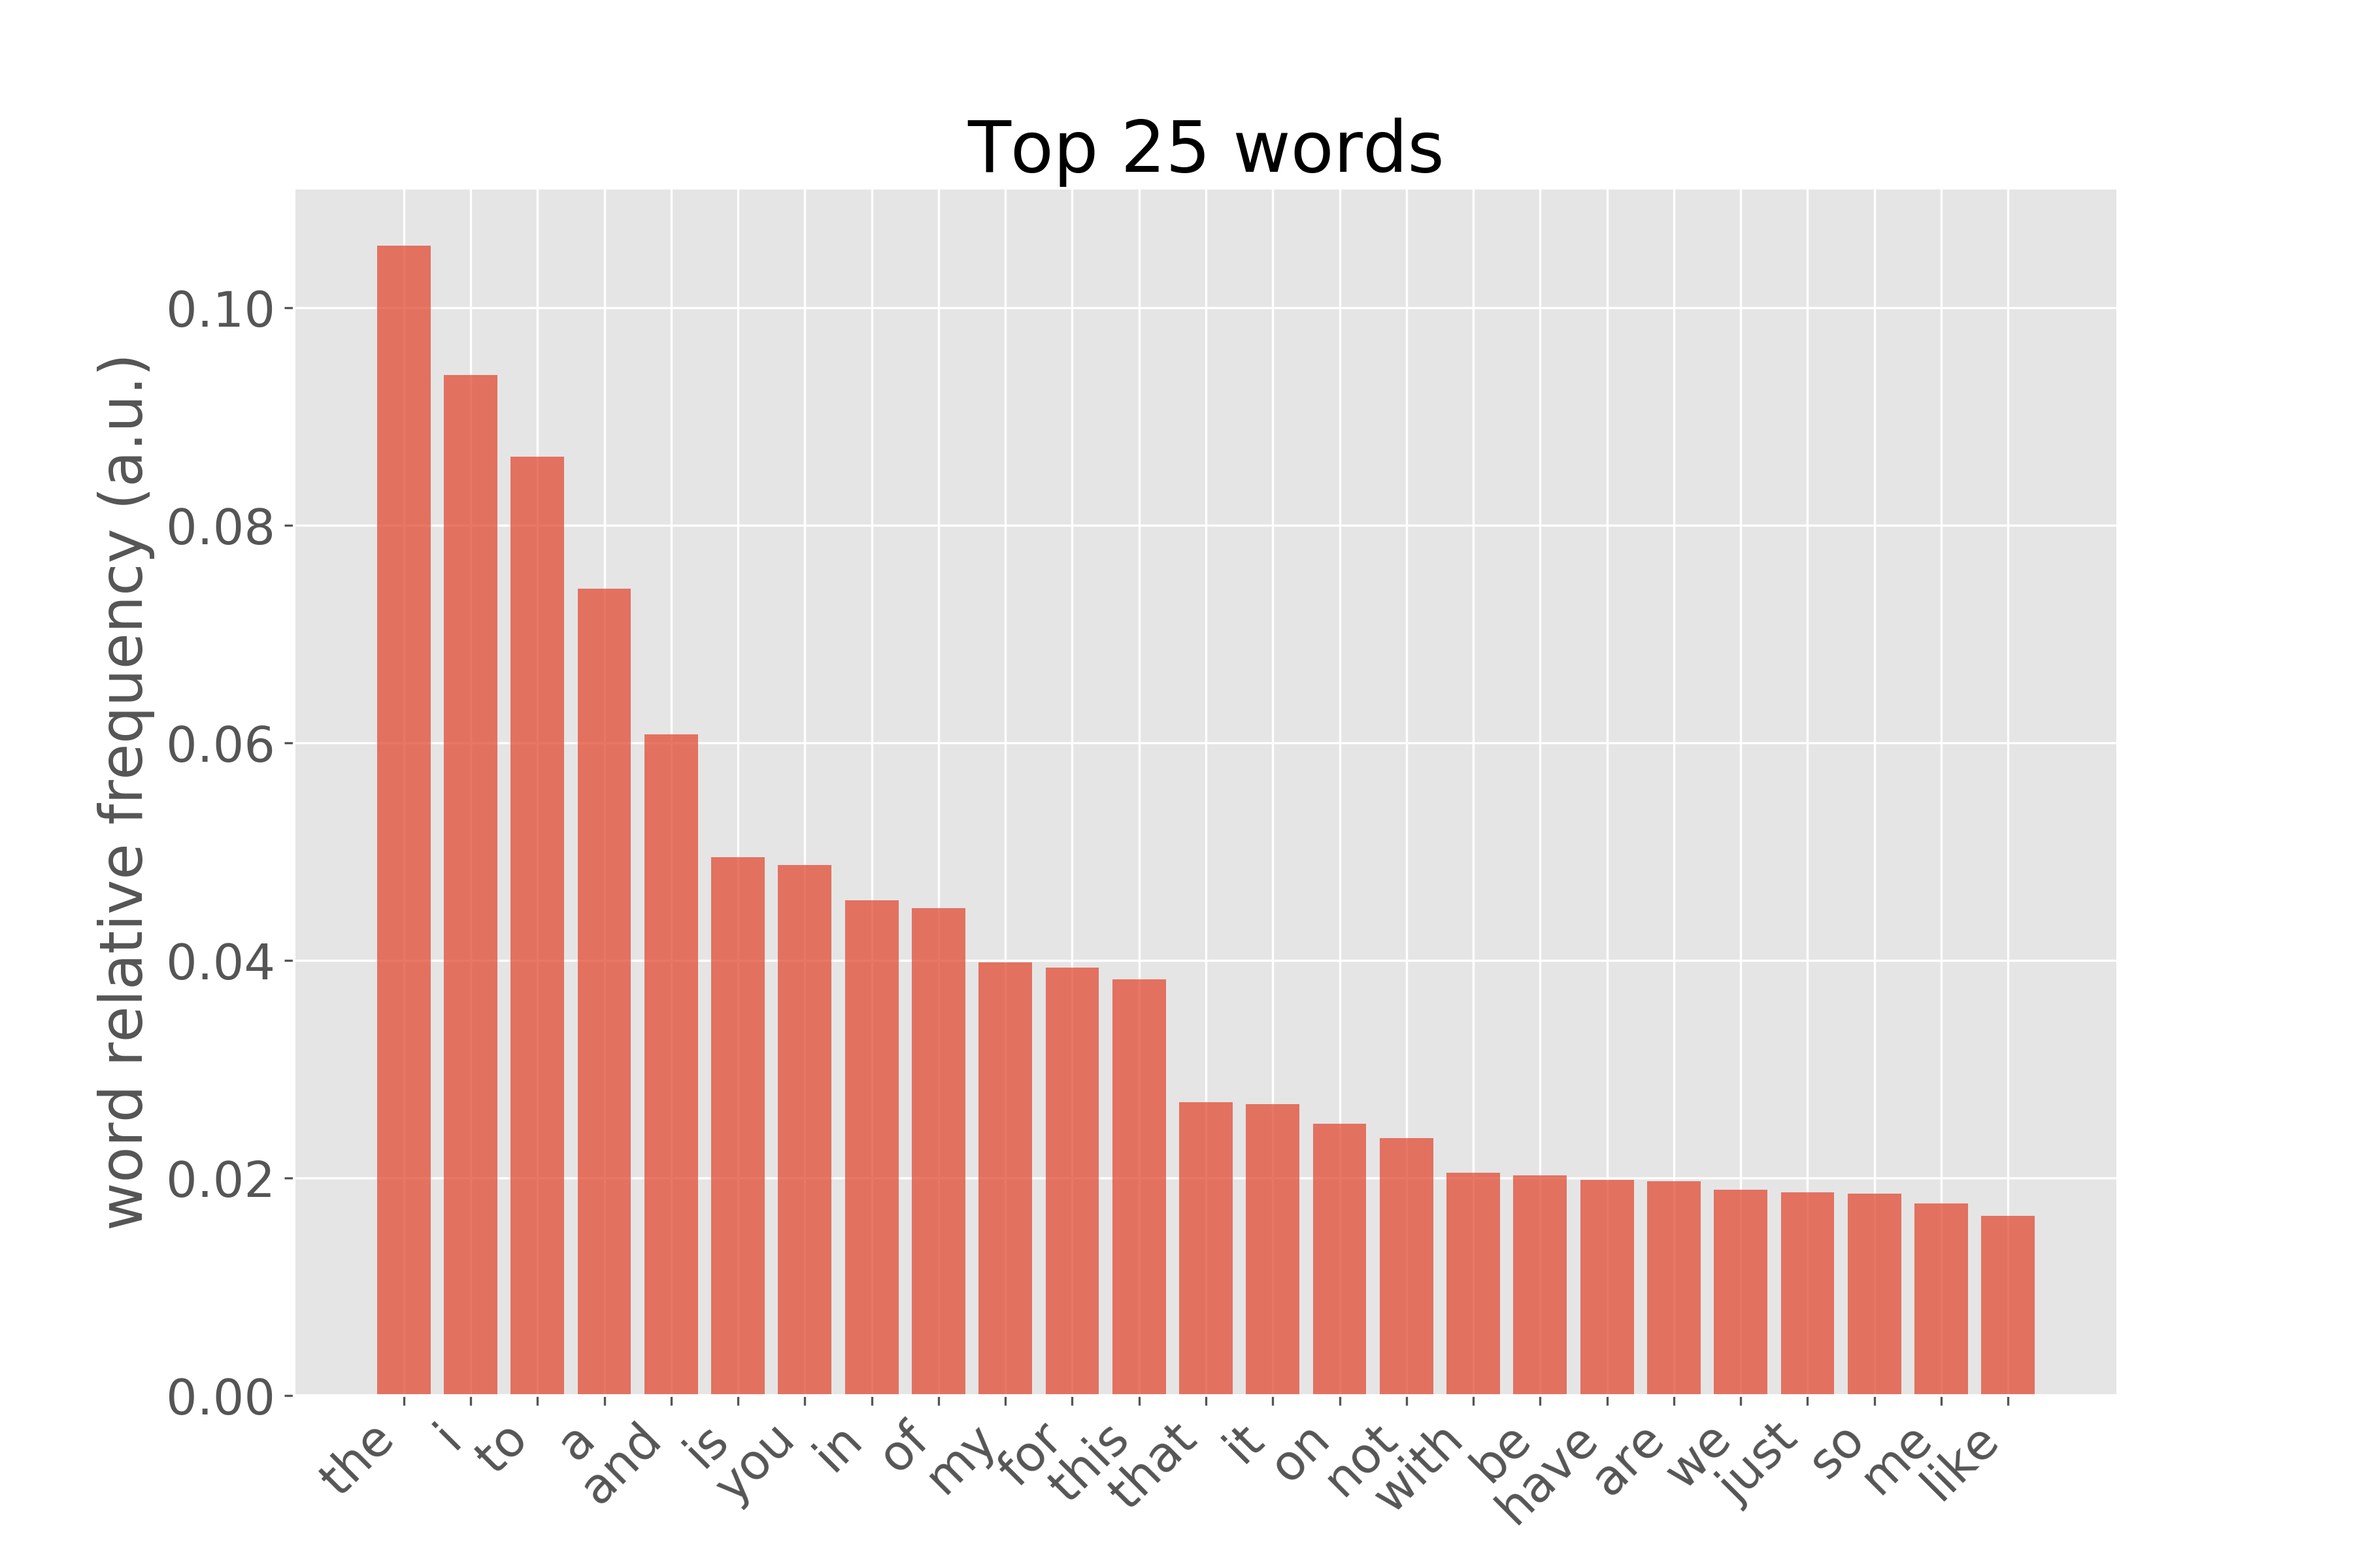
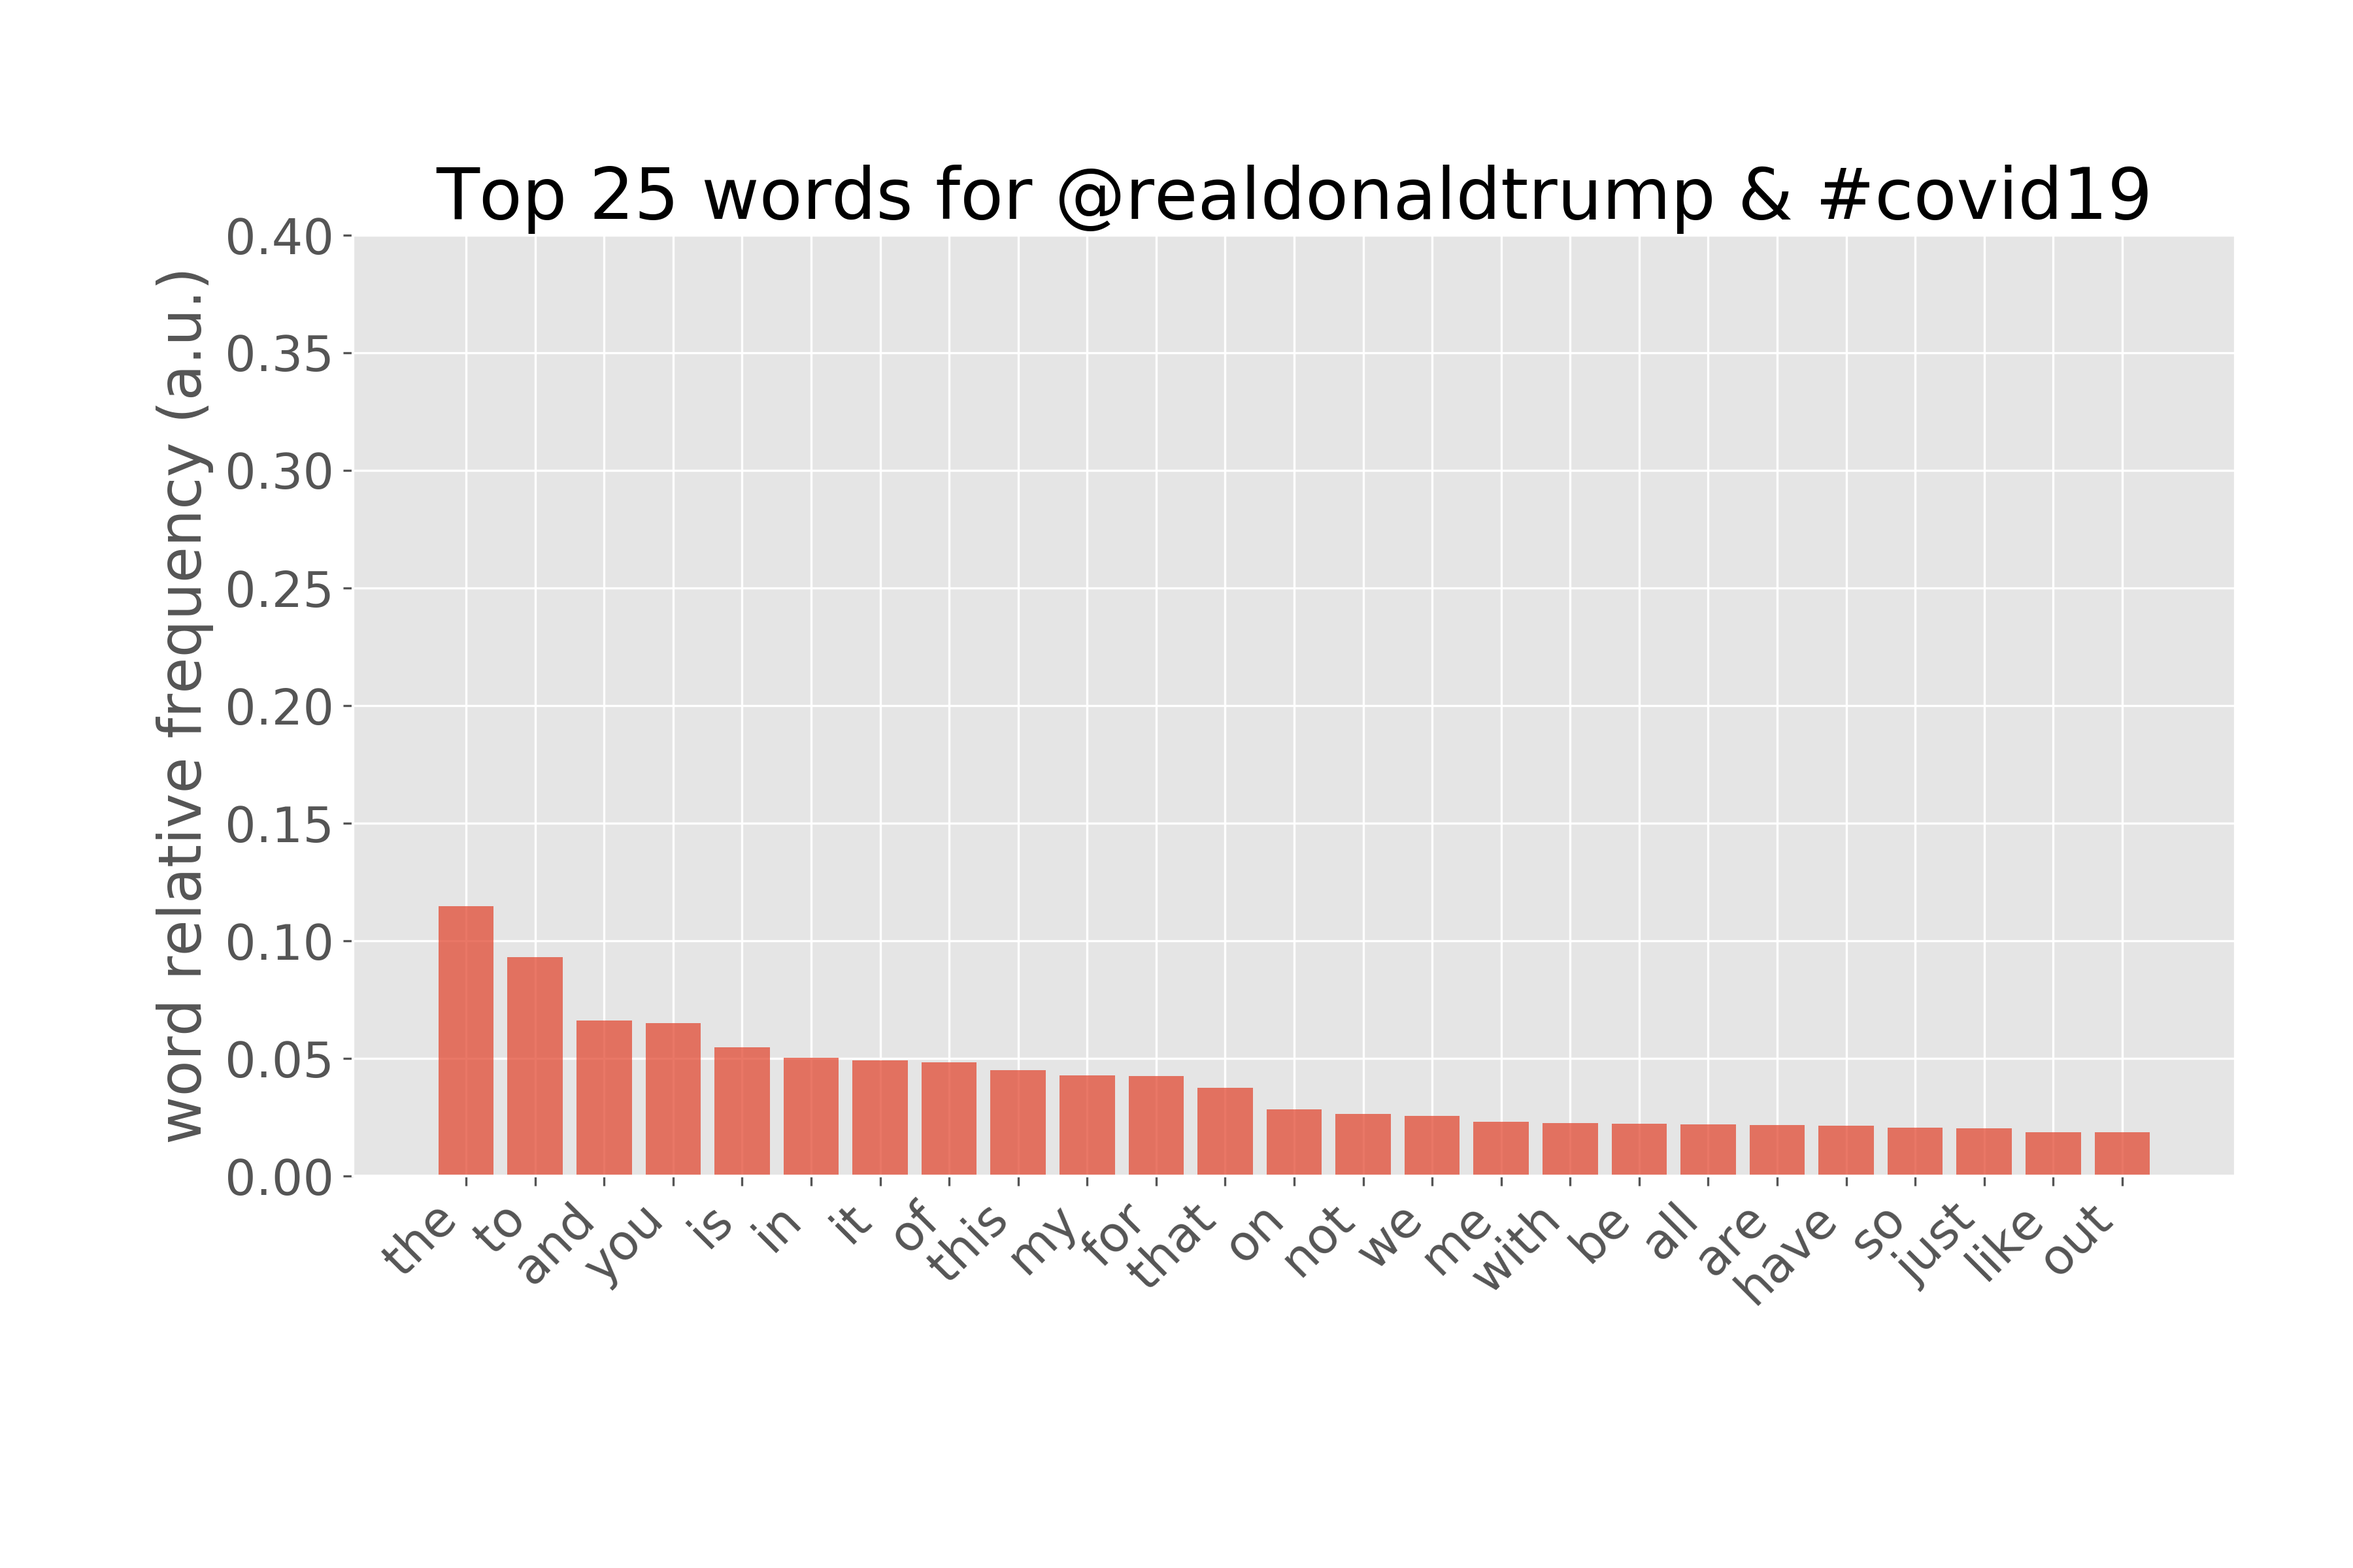
formatted barcharts, updated text filter

diff --git a/src/co_data.py b/src/co_data.py
@@ -3,7 +3,6 @@ import numpy as np
 import os
 import re
 import matplotlib.pyplot as plt
-
 from wordcloud import WordCloud
 from sklearn.feature_extraction.text import CountVectorizer
 from sklearn.feature_extraction.text import TfidfTransformer
@@ -61,10 +60,13 @@ class TextCleaner():
         
         self.emoji_list = re.sub(r'\w','',without_re_groups).split()     # encode with utf-8
 
+        without_last_re_group = re.sub(self.re_substitution_groups[4],' ', without_re_groups)
+        words_greater_than_two_char = ' '.join([word for word in without_last_re_group.split() if len(word) >= 2])
+
         if exclude_stopwords:
-            one_space_separated_tweet = ' '.join([word for word in without_re_groups.split() if word not in stopwords])
+            one_space_separated_tweet = ' '.join([word for word in words_greater_than_two_char.split() if word not in stopwords])
         else:
-            one_space_separated_tweet = ' '.join([word for word in without_re_groups.split()])
+            one_space_separated_tweet = ' '.join([word for word in words_greater_than_two_char.split()])
         return one_space_separated_tweet
 
 def make_cloud(ax, pd_series_cleaned_text, state='CO', treatment='2', save_fig = False):
@@ -77,6 +79,10 @@ def make_cloud(ax, pd_series_cleaned_text, state='CO', treatment='2', save_fig =
     plt.savefig(f'../images/{state}_{treatment}_cloud.png',dpi=300)
 
 def to_count_list(input_lst, sorted_by_vals_desc=True):
+    '''
+    Counts words in word list, converts to count dictionary, then outputs
+    words (keys) and counts (vals)
+    '''
     new_dict ={}
     for word in input_lst:
         if word not in new_dict:
@@ -112,8 +118,10 @@ class PlotFormatter():
             y_data = list(temp)
 
         if self.num_subplots == 1:
+            self.ax.set_position([0.15, 0.25, 0.8, 0.6])
             self.ax.bar(x_vals, y_data, tick_label=x_label_list, align='center', alpha=0.75)
             self.ax.set_ylabel(y_label)
+            self.ax.set_ylim((0,0.40))
             self.ax.set_title(title)
             for label in self.ax.get_xticklabels():
                 label.set_rotation(45)
@@ -121,6 +129,7 @@ class PlotFormatter():
         else:
             self.ax[subplot_number].bar(x_vals, y_data, tick_label=x_label_list, align='center', alpha=0.75)
             self.ax[subplot_number].set_ylabel(y_label)
+            self.ax.set_ylim((0,0.40))
             self.ax[subplot_number].set_title(title)
             for label in self.ax[subplot_number].get_xticklabels():
                 label.set_rotation(45)
@@ -128,6 +137,7 @@ class PlotFormatter():
 
     def save_fig(self,saved_figure_name):
         plt.savefig(f'../images/{saved_figure_name}', dpi=300)
+        plt.close(self.fig)
 
 
     
@@ -161,51 +171,31 @@ if __name__ == '__main__':
     select_state = 'co'
     select_treatment = 2
 
-    path_to_json = f'../data/CO/{json_list[select_treatment]}'
-    pipeline = PipelineToPandas()
-    co_3_df = pipeline.spark_df_to_pandas(path_to_json,'co',select_treatment+1)
+    treatment_dict = {0: '@joebiden', 1: '@joebiden & #covid19', 2: '#covid19',
+                      3: '@realdonaldtrump & #covid19', 4: '@realdonaldtrump'}
 
-    # Clean twitter text
-    text_cleaner = TextCleaner()
-    clean_tweet_col = co_3_df['tweet_text'].apply(lambda x: text_cleaner.clean_tweets(x))
-    tweet_emoji = text_cleaner.emoji_list
+    for select_treatment in range(len(json_list)):
+        path_to_json = f'../data/CO/{json_list[select_treatment]}'
+        pipeline = PipelineToPandas()
+        co_3_df = pipeline.spark_df_to_pandas(path_to_json,select_state,select_treatment+1)
 
-    # # generate wordcloud
-    clean_txt_string = clean_tweet_col.str.cat(sep=' ')
+        # Clean twitter text
+        text_cleaner = TextCleaner()
+        clean_tweet_col = co_3_df['tweet_text'].apply(lambda x: text_cleaner.clean_tweets(x,exclude_stopwords=False))
+        tweet_emoji = text_cleaner.emoji_list
 
-    # wordcloud = WordCloud().generate(clean_txt_string)
-    # fig, ax = plt.subplots(1)
-    # plt.imshow(wordcloud, interpolation='bilinear')
-    # plt.axis("off")
+        # # generate wordcloud
+        clean_txt_string = clean_tweet_col.str.cat(sep=' ')
 
-    # plt.savefig(f'../images/{select_state}_{select_treatment}_cloud2.png',dpi=300)
+        # bar plots of freq words
 
-    # bar plots of freq words
+        clean_word_list = clean_txt_string.split()
 
-    clean_word_list = clean_txt_string.split()
+        keys, vals = to_count_list(clean_word_list)
 
-    keys, vals = to_count_list(clean_word_list)
-
-    plotter = PlotFormatter()
-    plotter.barchart(0,keys[:25],vals[:25],'word relative frequency (a.u.)','Top 25 words')
-    plotter.save_fig(f'{select_state}_{select_treatment}_top25words.png')
-    # new_dict ={}
-    # for word in clean_word_list:
-    #     if word not in new_dict:
-    #         new_dict[word] = 1
-    #     else:
-    #         new_dict[word] += 1
-    
-    # sorted_dict = {}
-    # for k, v in sorted(new_dict.values(), reverse=True):
-    #     sorted_dict[k] = v
-
-    # sorted_keys_by_desc_value = sorted(new_dict, key=new_dict.__getitem__, reverse=True)
-    
-
-
-    # fig, ax = plt.subplot(1)
-    # ax.bar()
+        plotter = PlotFormatter()
+        plotter.barchart(0,keys[:25],vals[:25],'word relative frequency (a.u.)',f'Top 25 words for {treatment_dict[select_treatment]}')
+        plotter.save_fig(f'{select_state}_{select_treatment}_top25words.png')
 
     # from sklearn.feature_extraction.text import CountVectorizer
 
